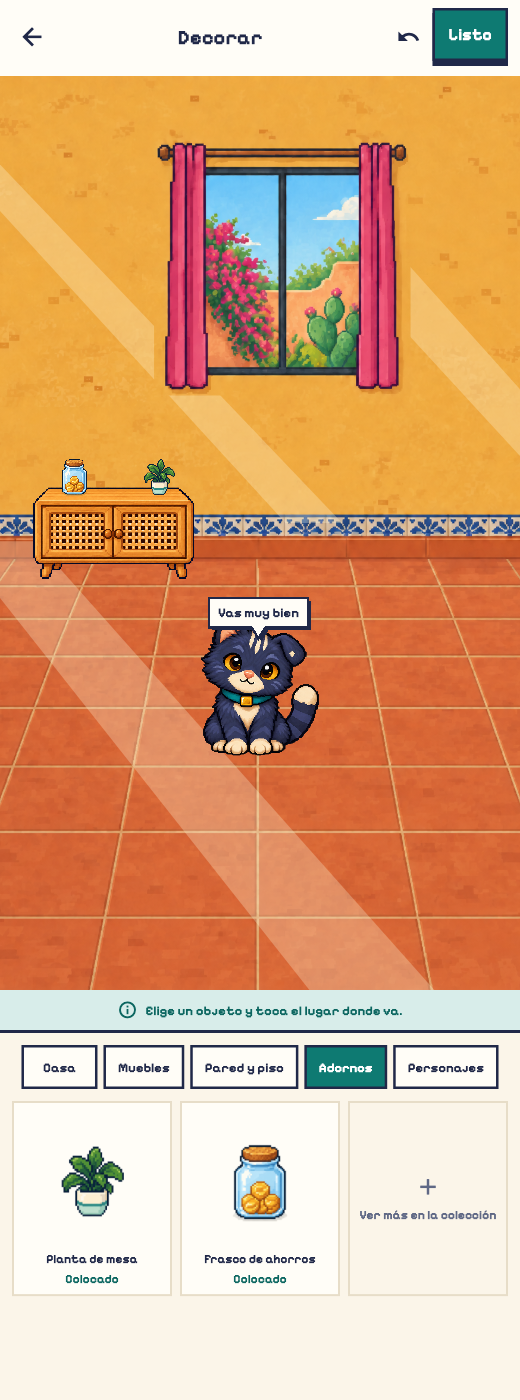
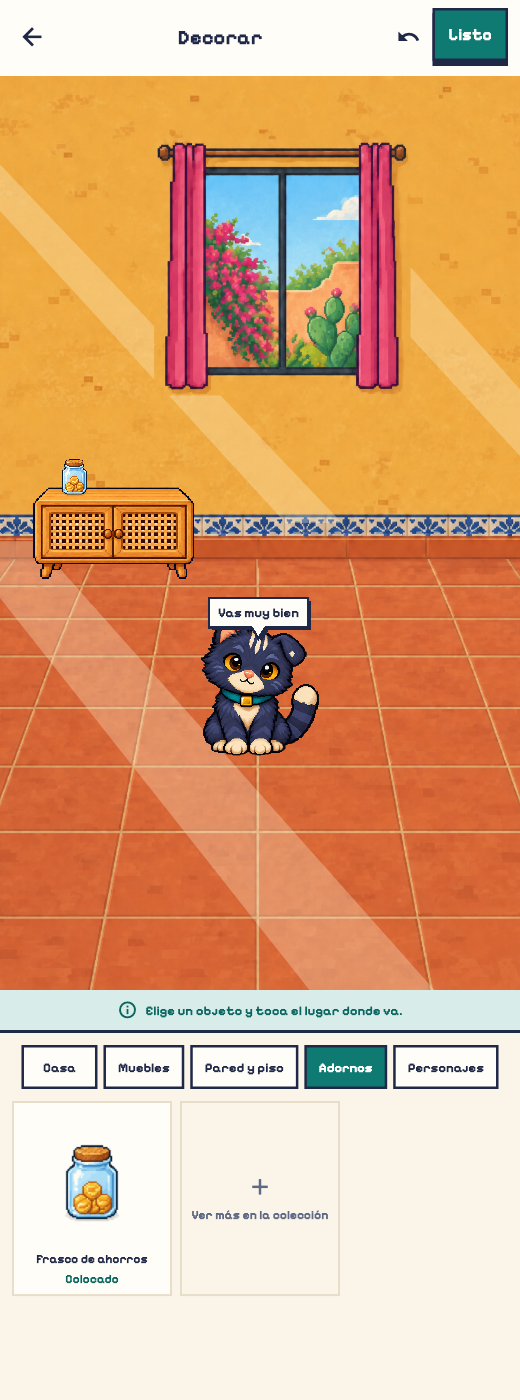
feat: withhold the table plant from every room
The plant no longer starts on Casa clara's sill (645d9ca), and now it
is not given at all: it is out of the drawer, saving it is refused, and
a room that still holds it from an older save shows the slot empty.

It stays drawn and placeable in RoomDecorAssets.withheldIds rather than
deleted, so it can return as a reward. Tests that used it as the second
prop on the bookcase and side table now move the jar between them.

diff --git a/test/room_new_items_visual_test.dart b/test/room_new_items_visual_test.dart
@@ -32,27 +32,23 @@ void main() {
     final store = await SobraStore.load(now: () => DateTime(2026, 9, 14, 10));
     await store.setReducedMotion(true);
     await ownAllDecorations(store);
-    Future<void> place({required bool plantOnBookcase}) async {
-      final plantSlot = plantOnBookcase
-          ? RoomSlot.cabinetTopRight
-          : RoomSlot.sideTableTop;
-      final jarSlot = plantOnBookcase
-          ? RoomSlot.sideTableTop
-          : RoomSlot.cabinetTop;
+    // The jar is the one prop either piece takes while the table plant is
+    // withheld, so it moves between them.
+    Future<void> place({required bool jarOnBookcase}) async {
       await store.saveRoomSelection(
         roomId: RoomThemes.casaJardinId,
         placementsByRoom: {
           RoomThemes.casaJardinId: {
             RoomSlot.floorCabinet: RoomDecorAssets.slimBookcaseId,
             RoomSlot.floorRight: RoomDecorAssets.roundSideTableId,
-            plantSlot: RoomDecorAssets.defaultTablePlantId,
-            jarSlot: RoomDecorAssets.savingsJarId,
+            jarOnBookcase ? RoomSlot.cabinetTop : RoomSlot.sideTableTop:
+                RoomDecorAssets.savingsJarId,
           },
         },
       );
     }
 
-    await place(plantOnBookcase: false);
+    await place(jarOnBookcase: true);
     await tester.pumpWidget(
       SobraScope(
         store: store,
@@ -72,7 +68,6 @@ void main() {
           RoomDecorAssets.slimBookcase,
           RoomDecorAssets.roundSideTable,
           RoomDecorAssets.savingsJar,
-          RoomDecorAssets.tablePlant,
         ])
           precacheImage(
             AssetImage(asset),
@@ -86,7 +81,7 @@ void main() {
       matchesGoldenFile('../design/rooms/sobra-room-bookcase-side-table.png'),
     );
 
-    await place(plantOnBookcase: true);
+    await place(jarOnBookcase: false);
     await tester.pump();
     await expectLater(
       find.byType(Scaffold),
@@ -153,7 +148,6 @@ void main() {
           RoomSlot.floorCabinet: RoomDecorAssets.lowCabinetId,
           RoomSlot.floorCenter: RoomDecorAssets.petBedId,
           RoomSlot.cabinetTop: RoomDecorAssets.savingsJarId,
-          RoomSlot.cabinetTopRight: RoomDecorAssets.defaultTablePlantId,
           RoomSlot.wallLeft: RoomDecorAssets.wallShelfId,
           RoomSlot.floorRight: RoomDecorAssets.terracottaPoufId,
           RoomSlot.rug: RoomDecorAssets.blueCreamRugId,
@@ -183,7 +177,6 @@ void main() {
           RoomDecorAssets.lowCabinet,
           RoomDecorAssets.petBed,
           RoomDecorAssets.savingsJar,
-          RoomDecorAssets.tablePlant,
           RoomDecorAssets.wallShelf,
           RoomDecorAssets.terracottaPouf,
           RoomDecorAssets.blueCreamRug,
@@ -228,7 +221,6 @@ void main() {
           RoomSlot.floorCabinet: RoomDecorAssets.lowCabinetId,
           RoomSlot.floorCenter: RoomDecorAssets.petBedId,
           RoomSlot.cabinetTop: RoomDecorAssets.savingsJarId,
-          RoomSlot.cabinetTopRight: RoomDecorAssets.defaultTablePlantId,
           RoomSlot.wallLeft: RoomDecorAssets.wallShelfId,
           RoomSlot.floorRight: RoomDecorAssets.terracottaPoufId,
           RoomSlot.rug: RoomDecorAssets.blueCreamRugId,
@@ -257,7 +249,6 @@ void main() {
           RoomDecorAssets.lowCabinet,
           RoomDecorAssets.petBed,
           RoomDecorAssets.savingsJar,
-          RoomDecorAssets.tablePlant,
           RoomDecorAssets.wallShelf,
           RoomDecorAssets.terracottaPouf,
           RoomDecorAssets.blueCreamRug,
@@ -314,24 +305,6 @@ void main() {
     await tester.pumpAndSettle();
     await tester.tap(find.text('Adornos'));
     await tester.pumpAndSettle();
-    await tester.tap(find.text('Planta de mesa'));
-    await tester.pumpAndSettle();
-    await tester.tap(find.bySemanticsLabel('Aparador bajo, lugar 2'));
-    await tester.pumpAndSettle();
-    await tester.runAsync(
-      () => precacheImage(
-        const AssetImage(RoomDecorAssets.tablePlant),
-        tester.element(find.byType(RoomDecorateScreen)),
-      ),
-    );
-    await tester.pump();
-    await expectLater(
-      find.byType(Scaffold),
-      matchesGoldenFile(
-        '../design/rooms/sobra-decorator-plant-selected-on-cabinet.png',
-      ),
-    );
-
     await tester.tap(find.text('Frasco de ahorros'));
     await tester.pumpAndSettle();
     await tester.tap(find.bySemanticsLabel('Aparador bajo, lugar 1'));
@@ -342,7 +315,6 @@ void main() {
           RoomThemes.casaJardin.portraitAsset,
           RoomDecorAssets.lowCabinet,
           RoomDecorAssets.savingsJar,
-          RoomDecorAssets.tablePlant,
         ])
           precacheImage(
             AssetImage(asset),

diff --git a/test/room_surface_test.dart b/test/room_surface_test.dart
@@ -225,8 +225,7 @@ void main() {
       final placements = <RoomSlot, String>{
         RoomSlot.floorCabinet: RoomDecorAssets.slimBookcaseId,
         RoomSlot.floorRight: RoomDecorAssets.roundSideTableId,
-        RoomSlot.cabinetTop: RoomDecorAssets.savingsJarId,
-        RoomSlot.sideTableTop: RoomDecorAssets.defaultTablePlantId,
+        RoomSlot.sideTableTop: RoomDecorAssets.savingsJarId,
       };
       expect(room.slotsForItem(RoomDecorAssets.slimBookcaseId), [
         RoomSlot.floorCabinet,
@@ -251,10 +250,20 @@ void main() {
       );
       expect(
         store.roomDecorationsFor(room.id),
-        containsPair(
-          RoomSlot.sideTableTop,
-          RoomDecorAssets.defaultTablePlantId,
+        containsPair(RoomSlot.sideTableTop, RoomDecorAssets.savingsJarId),
+      );
+      // The plant still fits the bookcase; it is only withheld for now.
+      await expectLater(
+        store.saveRoomSelection(
+          roomId: room.id,
+          placementsByRoom: {
+            room.id: {
+              ...placements,
+              RoomSlot.cabinetTopRight: RoomDecorAssets.defaultTablePlantId,
+            },
+          },
         ),
+        throwsArgumentError,
       );
       await expectLater(
         store.saveRoomSelection(
@@ -382,7 +391,6 @@ void main() {
           RoomThemes.casaJardinId: {
             RoomSlot.rug: RoomDecorAssets.defaultRugId,
             RoomSlot.floorCabinet: RoomDecorAssets.lowCabinetId,
-            RoomSlot.cabinetTopRight: RoomDecorAssets.defaultTablePlantId,
             RoomSlot.floorRight: RoomDecorAssets.terracottaPoufId,
           },
         },
@@ -393,7 +401,6 @@ void main() {
           RoomThemes.casaDePlayaId: {
             RoomSlot.rug: RoomDecorAssets.defaultRugId,
             RoomSlot.floorCabinet: RoomDecorAssets.lowCabinetId,
-            RoomSlot.cabinetTopRight: RoomDecorAssets.defaultTablePlantId,
             RoomSlot.wallLeft: RoomDecorAssets.wallShelfId,
           },
         },
@@ -514,23 +521,12 @@ void main() {
       expect(store.roomDecorationsFor().containsValue('item-05'), isFalse);
     });
 
-    testWidgets('the table plant is offered only on a supporting surface', (
-      tester,
-    ) async {
+    testWidgets('the table plant is not offered', (tester) async {
       final store = await _store();
       await _pumpDecorator(tester, store);
       await _tapAndSettle(tester, find.text('Adornos'));
-      await _tapAndSettle(tester, find.text('Planta de mesa'));
 
-      expect(find.bySemanticsLabel('Mesa, lugar 1'), findsOneWidget);
-      expect(find.bySemanticsLabel(RegExp('^Piso, lugar')), findsNothing);
-
-      await _tapAndSettle(tester, find.bySemanticsLabel('Mesa, lugar 1'));
-      await _tapAndSettle(tester, find.text('Listo'));
-
-      final room = (await SobraStore.load(now: _now)).roomDecorationsFor();
-      expect(room[RoomSlot.floorRight], isNull);
-      expect(room[RoomSlot.tabletop], RoomDecorAssets.defaultTablePlantId);
+      expect(find.text('Planta de mesa'), findsNothing);
     });
 
     testWidgets('Casa clara starts with nothing on the windowsill', (
@@ -543,12 +539,15 @@ void main() {
       });
     });
 
-    testWidgets('the lamp takes the sill from the plant', (tester) async {
-      final store = await _store();
-      await store.saveRoomDecorations({
-        ...store.roomDecorationsFor(),
-        RoomSlot.tabletop: RoomDecorAssets.defaultTablePlantId,
+    testWidgets('a plant saved before it was withheld leaves the sill free', (
+      tester,
+    ) async {
+      await _store();
+      final store = await _reloadWithSavedRoom({
+        'rug': RoomDecorAssets.defaultRugId,
+        'tabletop': RoomDecorAssets.defaultTablePlantId,
       });
+      expect(store.roomDecorationsFor()[RoomSlot.tabletop], isNull);
       await _pumpDecorator(tester, store);
 
       await _tapTile(tester, 'Lámpara verde');
@@ -556,12 +555,6 @@ void main() {
       await _tapAndSettle(tester, find.text('Listo'));
 
       expect(store.roomDecorationsFor()[RoomSlot.tabletop], 'item-01');
-      expect(
-        store.roomDecorationsFor().containsValue(
-          RoomDecorAssets.defaultTablePlantId,
-        ),
-        isFalse,
-      );
     });
   });
 }

diff --git a/test/room_decorate_test.dart b/test/room_decorate_test.dart
@@ -64,8 +64,8 @@ void main() {
 
     await openCategory(tester, 'Adornos');
 
-    // Free and owned from the start, though no room places it any more.
-    expect(find.text('Planta de mesa'), findsOneWidget);
+    // The table plant is withheld for now, so nobody has it.
+    expect(find.text('Planta de mesa'), findsNothing);
     // Items still locked behind a level or an ad stay out of the drawer.
     expect(find.text('VER ANUNCIO'), findsNothing);
     expect(find.text('COMPRAR'), findsNothing);
@@ -260,19 +260,6 @@ void main() {
     await tester.pumpAndSettle();
 
     await openCategory(tester, 'Adornos');
-    await tester.tap(find.text('Planta de mesa'));
-    await tester.pumpAndSettle();
-    expect(find.bySemanticsLabel('Aparador bajo, lugar 2'), findsOneWidget);
-    await tester.tap(find.bySemanticsLabel('Aparador bajo, lugar 2'));
-    await tester.pumpAndSettle();
-    expect(
-      tester.widget<RoomScene>(find.byType(RoomScene)).placements,
-      containsPair(
-        RoomSlot.cabinetTopRight,
-        RoomDecorAssets.defaultTablePlantId,
-      ),
-    );
-
     await tester.tap(find.text('Frasco de ahorros'));
     await tester.pumpAndSettle();
     expect(find.bySemanticsLabel('Aparador bajo, lugar 1'), findsOneWidget);
@@ -296,10 +283,9 @@ void main() {
     );
     expect(saved[RoomSlot.floorCabinet], isNull);
     expect(saved[RoomSlot.cabinetTop], isNull);
-    expect(saved[RoomSlot.cabinetTopRight], isNull);
   });
 
-  testWidgets('bookcase and side table take props in distinct places', (
+  testWidgets('the jar stays on the bookcase when the side table leaves', (
     tester,
   ) async {
     final store = await loadStore();
@@ -340,14 +326,6 @@ void main() {
     await tester.pumpAndSettle();
     await tester.tap(find.bySemanticsLabel('Estantería estrecha, lugar 1'));
     await tester.pumpAndSettle();
-    await tester.tap(find.text('Planta de mesa'));
-    await tester.pumpAndSettle();
-    await tester.tap(find.bySemanticsLabel('Mesa auxiliar redonda, lugar 1'));
-    await tester.pumpAndSettle();
-    expect(
-      tester.widget<RoomScene>(find.byType(RoomScene)).placements,
-      containsPair(RoomSlot.sideTableTop, RoomDecorAssets.defaultTablePlantId),
-    );
 
     await openCategory(tester, 'Muebles');
     await tester.scrollUntilVisible(

diff --git a/lib/state/sobra_store.dart b/lib/state/sobra_store.dart
@@ -2371,8 +2371,10 @@ class SobraStore extends ChangeNotifier {
     return Map.unmodifiable(merged);
   }
 
-  /// Room defaults are no catalog entry and always count as owned.
+  /// Room defaults are no catalog entry and always count as owned, apart
+  /// from what [RoomDecorAssets.withheldIds] holds back.
   bool _ownsRoomItem(String itemId) {
+    if (RoomDecorAssets.withheldIds.contains(itemId)) return false;
     final entry = CatalogPreviewData.items
         .where((candidate) => candidate.id == itemId)
         .firstOrNull;
@@ -2459,7 +2461,8 @@ class SobraStore extends ChangeNotifier {
       final entry = CatalogPreviewData.items
           .where((candidate) => candidate.id == itemId)
           .firstOrNull;
-      if (entry != null && !ownsCatalogEntry(entry)) {
+      if ((entry != null && !ownsCatalogEntry(entry)) ||
+          RoomDecorAssets.withheldIds.contains(itemId)) {
         throw ArgumentError.value(itemId, 'placements', 'item not owned');
       }
       if (!room.slotsForItem(itemId, placements: placements).contains(slot)) {

diff --git a/lib/models/room_design.dart b/lib/models/room_design.dart
@@ -306,11 +306,18 @@ abstract final class RoomDecorAssets {
   /// What every room starts with: the rug, and nothing on any sill or table.
   ///
   /// Casa clara also used to put the table plant on its windowsill. It read
-  /// as part of the background rather than something the user placed, so it
-  /// now waits in the drawer like the rest; it is still free and owned.
+  /// as part of the background rather than something the user placed; see
+  /// [withheldIds] for where it went.
   static const defaultPlacements = <RoomSlot, String>{
     RoomSlot.rug: defaultRugId,
   };
+
+  /// Drawn and placeable, but given to nobody for now.
+  ///
+  /// The table plant used to be free in every room. It is held back rather
+  /// than deleted so it can return as a reward; until then it is not offered,
+  /// cannot be saved, and a room that still holds one shows the slot empty.
+  static const withheldIds = {defaultTablePlantId};
 
   static String? assetFor(String id) => switch (id) {
     defaultRugId => rug,

diff --git a/lib/screens/room_decorate_screen.dart b/lib/screens/room_decorate_screen.dart
@@ -752,16 +752,6 @@ List<_RoomChoice> _choicesFor(
       ),
     );
   }
-  if (category == RoomDecorCategory.props) {
-    choices.add(
-      _assetChoice(
-        id: RoomDecorAssets.defaultTablePlantId,
-        label: l10n.roomTablePlant,
-        asset: RoomDecorAssets.tablePlant,
-        status: decorStatus(RoomDecorAssets.defaultTablePlantId),
-      ),
-    );
-  }
 
   for (final entry in CatalogPreviewData.items) {
     if (RoomDecorAssets.assetFor(entry.id) == null ||

diff --git a/docs/hybrid-room-theme-guide.md b/docs/hybrid-room-theme-guide.md
@@ -9,7 +9,9 @@ user can place.
 Status: surfaces, slots, and six selectable themes are live. Casa jardín,
 Casa de playa, Casa torre, Casa montaña, and Casa invernadero use empty
 backgrounds with a separate default rug. Every room, Casa clara included,
-starts with only the rug; the table plant is free in the drawer. The last three
+starts with only the rug. The table plant is withheld for now
+(`RoomDecorAssets.withheldIds`): not offered, not saveable, and hidden where an
+older save placed it, so it can come back later as a reward. The last three
 rooms have wide windows, so they offer floor and furniture-supported tabletop
 slots but no wall slots. A placed cabinet or side table supplies its own
 tabletop slot.
@@ -149,7 +151,7 @@ A table or shelf is an item that brings its own places.
 
 ## Starting out *(planned)*
 
-- New users: an empty Casa clara with a rug; the small plant waits in the drawer.
+- New users: an empty Casa clara with a rug.
 - Existing users: a one-time migration grants the furniture that used to be
   painted into Casa clara and places it where it was drawn, so the room looks
   the same after the update. A lamp saved on the floor already moves to the
